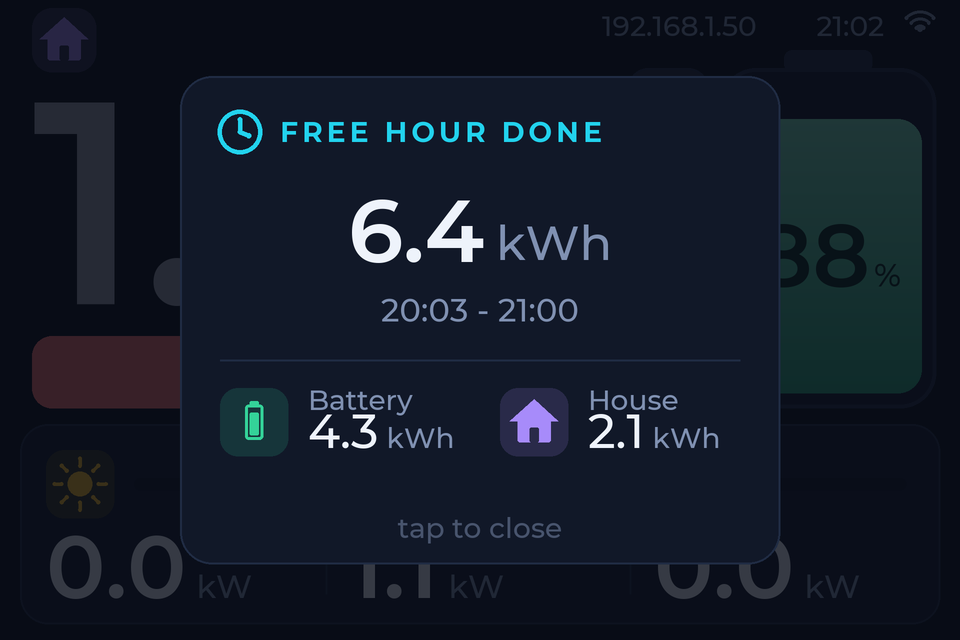
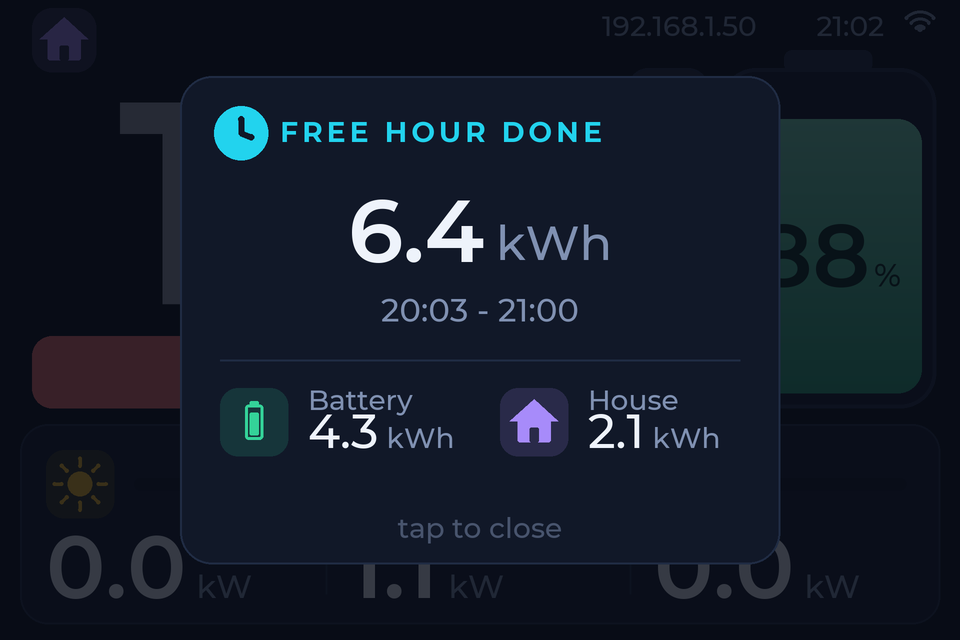
image

Changed region(s): [[0.0312, 0.1562, 0.1875, 0.5], [0.2188, 0.1562, 0.2812, 0.25]]

diff --git a/tools/mockups/dashboard.py b/tools/mockups/dashboard.py
@@ -109,13 +109,20 @@ def text_sx(c, x, y, s, size, color, sx=1.0, w="sb"):
     return c.d.textlength(s, font=f) / K * sx
 
 
-def hero(c, tile_icon, tile_col, kw, num=TEXT, tile=TILE, text=None):
+def hero(c, tile_icon, tile_col, kw, num=TEXT, tile=TILE, text=None, ref="4"):
+    """The integer part right-aligns to a fixed decimal point, measured from
+    `ref` ("4" on home, "14" in free hour), as setHeroInt() does."""
     x, y, t = tile
     tbg = mix(tile_col, CARD, 0.16)
     c.rrect(x, y, x + t, y + t, 10, fill=tbg)
     tile_icon(c, x + t / 2, y + t / 2, 22, tile_col, tbg)
     value = text or f"{kw:.1f}"
-    w = text_sx(c, HERO_X, HERO_BASE, value, 144, num)
+    f = R.font(144, "sb")
+    dec_x = HERO_X + c.d.textlength(ref, font=f) / K
+    whole, frac = value.split(".") if "." in value else (value, "")
+    wx = dec_x - c.d.textlength(whole, font=f) / K
+    text_sx(c, wx, HERO_BASE, whole, 144, num)
+    w = dec_x - HERO_X + text_sx(c, dec_x, HERO_BASE, "." + frac, 144, num) if frac else dec_x - HERO_X
     c.text(HERO_X + w + 8, HERO_BASE, "kW", 24, MUTED, "r", "ls")
 
 
@@ -270,7 +277,7 @@ def free_screen(path, pv, grid, ess, soc, clock, left_s, hero_text=None, kwh=3.9
     c = Canvas()
     top_bar(c, clock)
     hero(c, tower, IMPORT, max(0, grid), num=OFFPEAK if is_offpeak(clock) else TEXT,
-         tile=FREE_TILE, text=hero_text)
+         tile=FREE_TILE, text=hero_text, ref="14")
     free_header(c, left_s, kwh)
     battery(c, soc)
     strip(c, [(sun, SOLAR, f"{pv:.1f}", pv),
